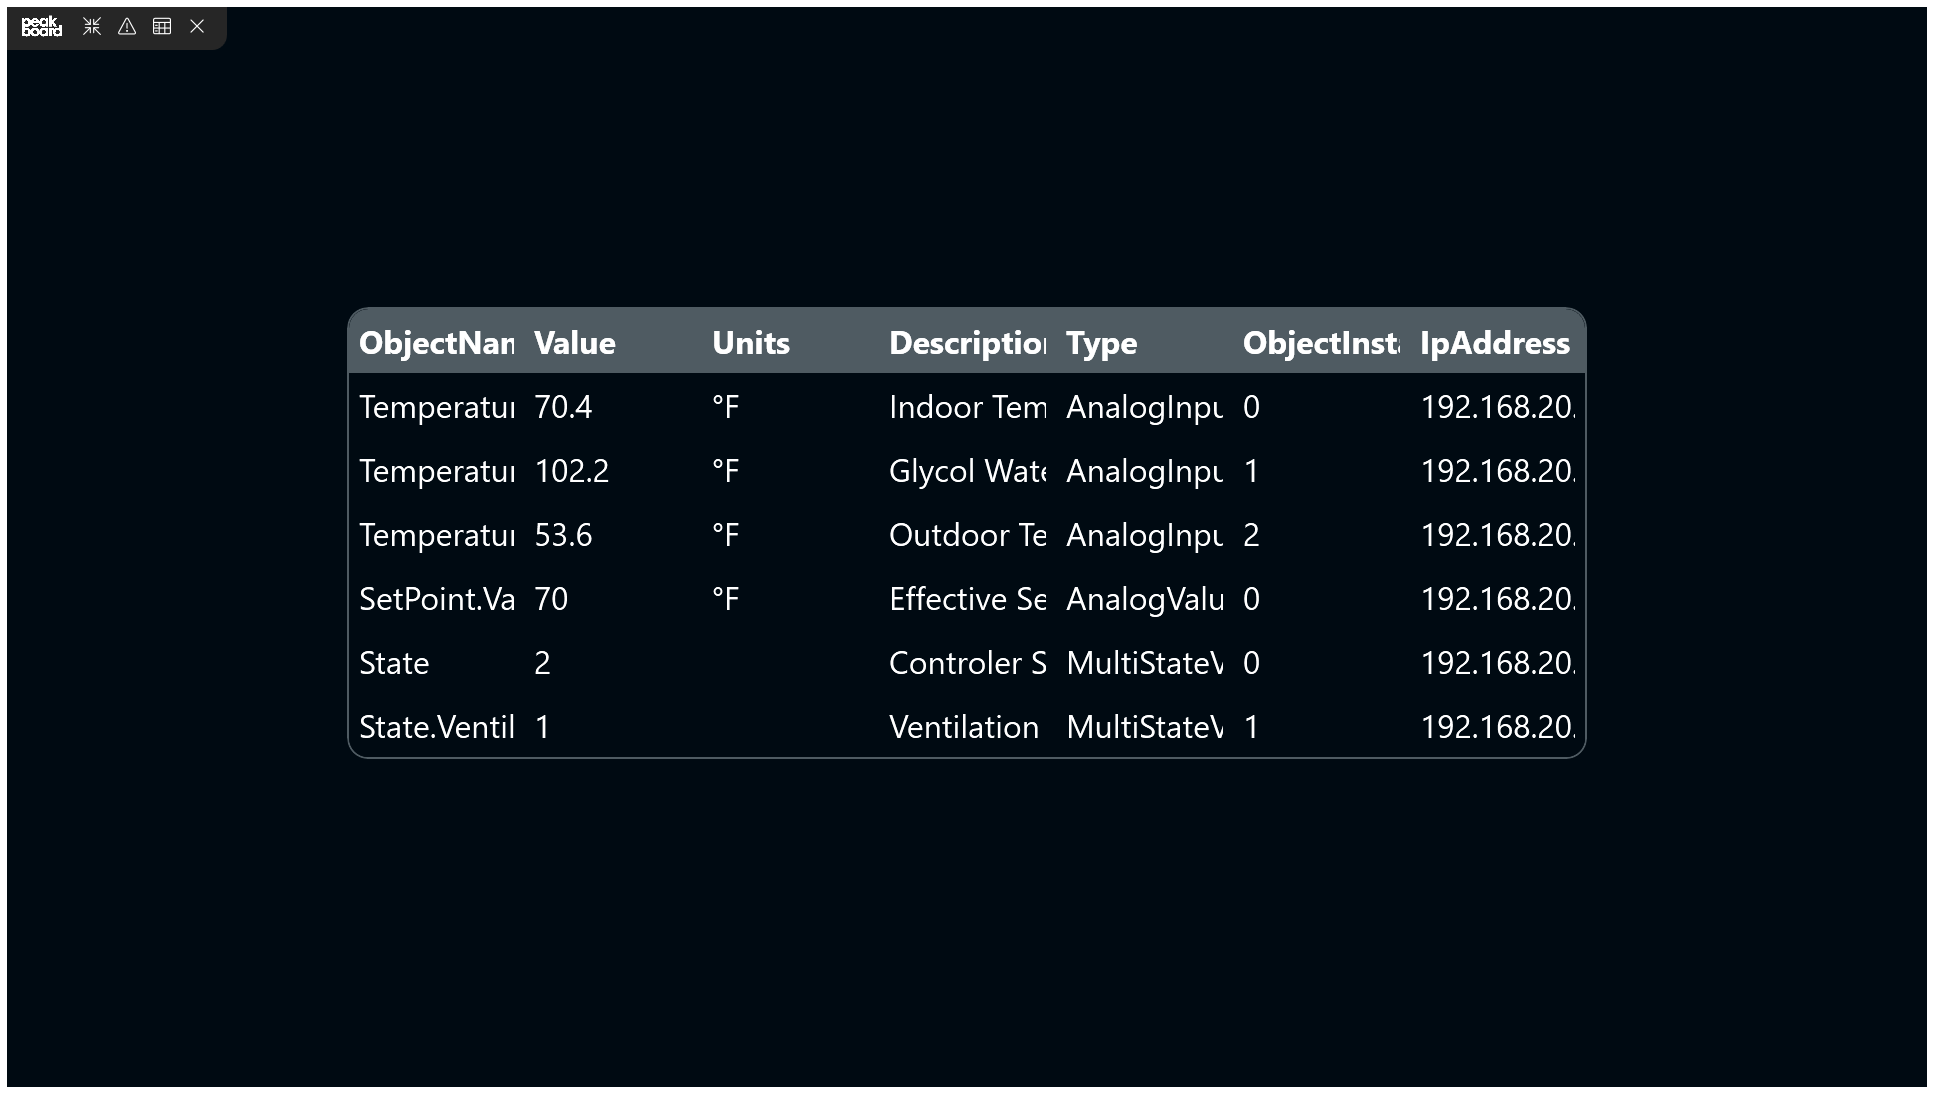
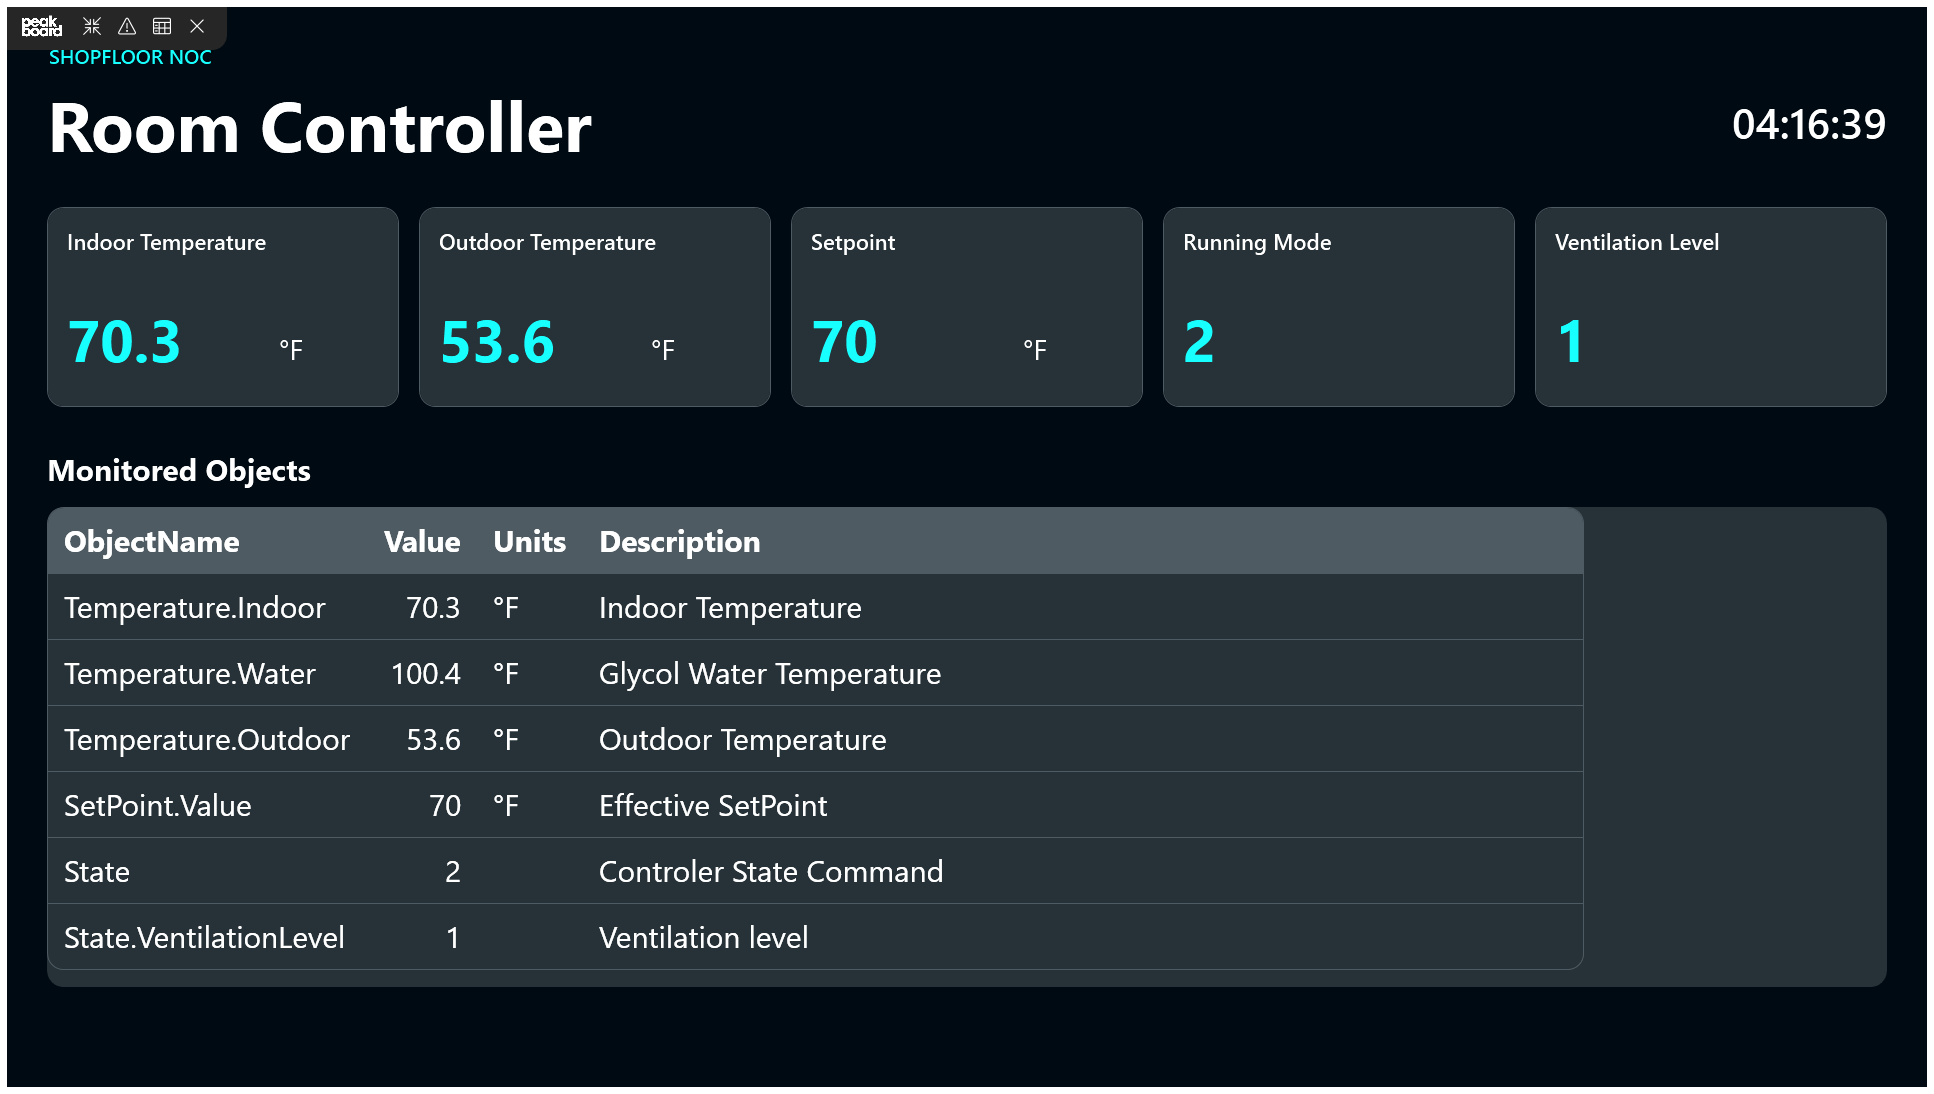
docs(bacnet): polished room dashboard bound to the live BACnet source (tiles + table)
Replaces the plain-table dashboard with a styled room-controller board (stat tiles
for indoor/outdoor temperature, setpoint, running mode and ventilation, plus a
Monitored Objects table), all bound to the genuine BACnet data source and showing
live values from the simulator in the Designer and the Peakboard Runtime. Updates
the dashboard section text and the downloadable example .pbmx accordingly.

diff --git a/content/_data_sources/de-bacnet.md b/content/_data_sources/de-bacnet.md
@@ -56,9 +56,9 @@ Mit einem Klick auf [OK] legst du die Datenquelle an. Sie erscheint anschließen
 
 ## Daten auf einem Dashboard anzeigen
 
-Verknüpfe die Datenquelle mit einem Control, um die Werte anzuzeigen. Am schnellsten ziehst du die Datenquelle [RoomController] (1) aus dem Explorer auf die Arbeitsfläche und wählst als Control eine [Table] (2). Die Table zeigt daraufhin alle abonnierten Objekte mit ihren Live-Werten direkt auf dem Dashboard (3).
+Verknüpfe die Datenquelle mit Controls, um die Werte anzuzeigen. Jedes Control bindest du dazu an die Datenquelle [RoomController] (1). Im Beispiel zeigen mehrere Kacheln oben die wichtigsten Werte an – Innen- und Außentemperatur, Sollwert, Betriebsmodus und Lüfterstufe (2) –, und eine [Table] listet darunter alle abonnierten Objekte mit Name, Wert, Einheit und Beschreibung auf (3). Alle Controls aktualisieren sich im eingestellten Reload-Intervall automatisch.
 
-![BACnet-Datenquelle an eine Table gebunden](/assets/images/data-sources/bacnet/bacnet-06-dashboard-designer.png)
+![BACnet-Room-Controller-Dashboard im Peakboard Designer](/assets/images/data-sources/bacnet/bacnet-06-dashboard-designer.png)
 
 Klicke auf [Preview], um das Projekt in der Peakboard Runtime abzuspielen. Die Werte werden nun im eingestellten Intervall aktualisiert und genau so dargestellt, wie sie später auf einer Peakboard Box oder einem BYOD Gerät erscheinen.
 

diff --git a/content/_data_sources/en-bacnet.md b/content/_data_sources/en-bacnet.md
@@ -56,9 +56,9 @@ Click [OK] to create the data source. It then appears in the Explorer under [Dat
 
 ## Display the data on a dashboard
 
-Link the data source to a control to show its values. The fastest way is to drag the [RoomController] data source (1) from the Explorer onto the canvas and choose a [Table] (2) as the control. The Table then shows all subscribed objects with their live values directly on the dashboard (3).
+Link the data source to controls to show its values. Each control is bound to the [RoomController] data source (1). In the example, a row of stat tiles at the top shows the key readings – indoor and outdoor temperature, setpoint, running mode and ventilation level (2) – and a [Table] below lists all subscribed objects with their name, value, unit and description (3). All controls refresh automatically at the configured reload interval.
 
-![BACnet data source bound to a Table](/assets/images/data-sources/bacnet/bacnet-06-dashboard-designer.png)
+![BACnet room controller dashboard in the Peakboard Designer](/assets/images/data-sources/bacnet/bacnet-06-dashboard-designer.png)
 
 Click [Preview] to run the project in the Peakboard Runtime. The values are now refreshed at the configured interval and displayed exactly as they will later appear on a Peakboard Box or a BYOD device.
 